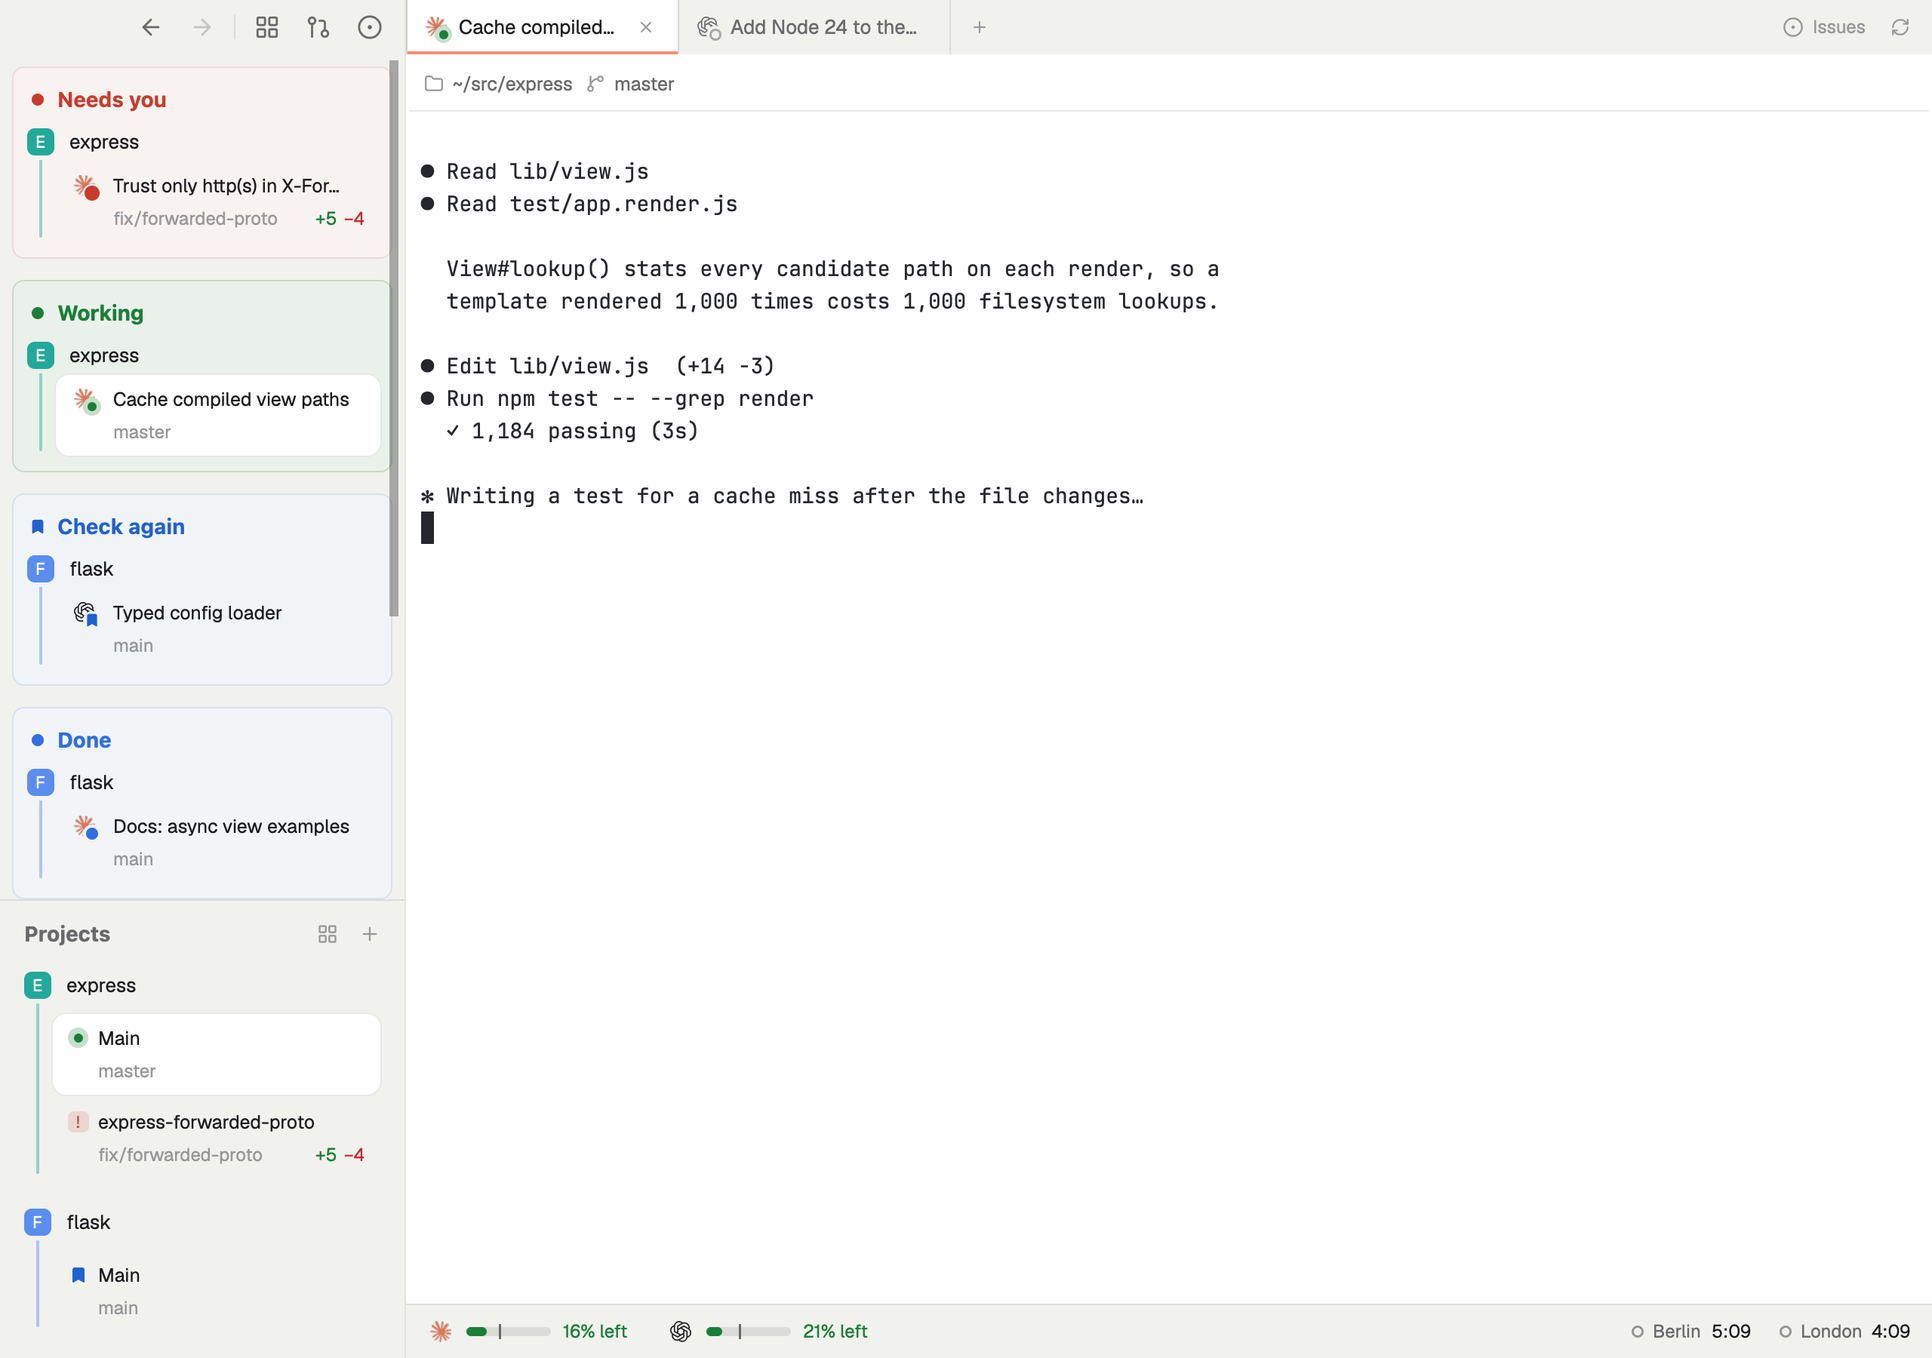
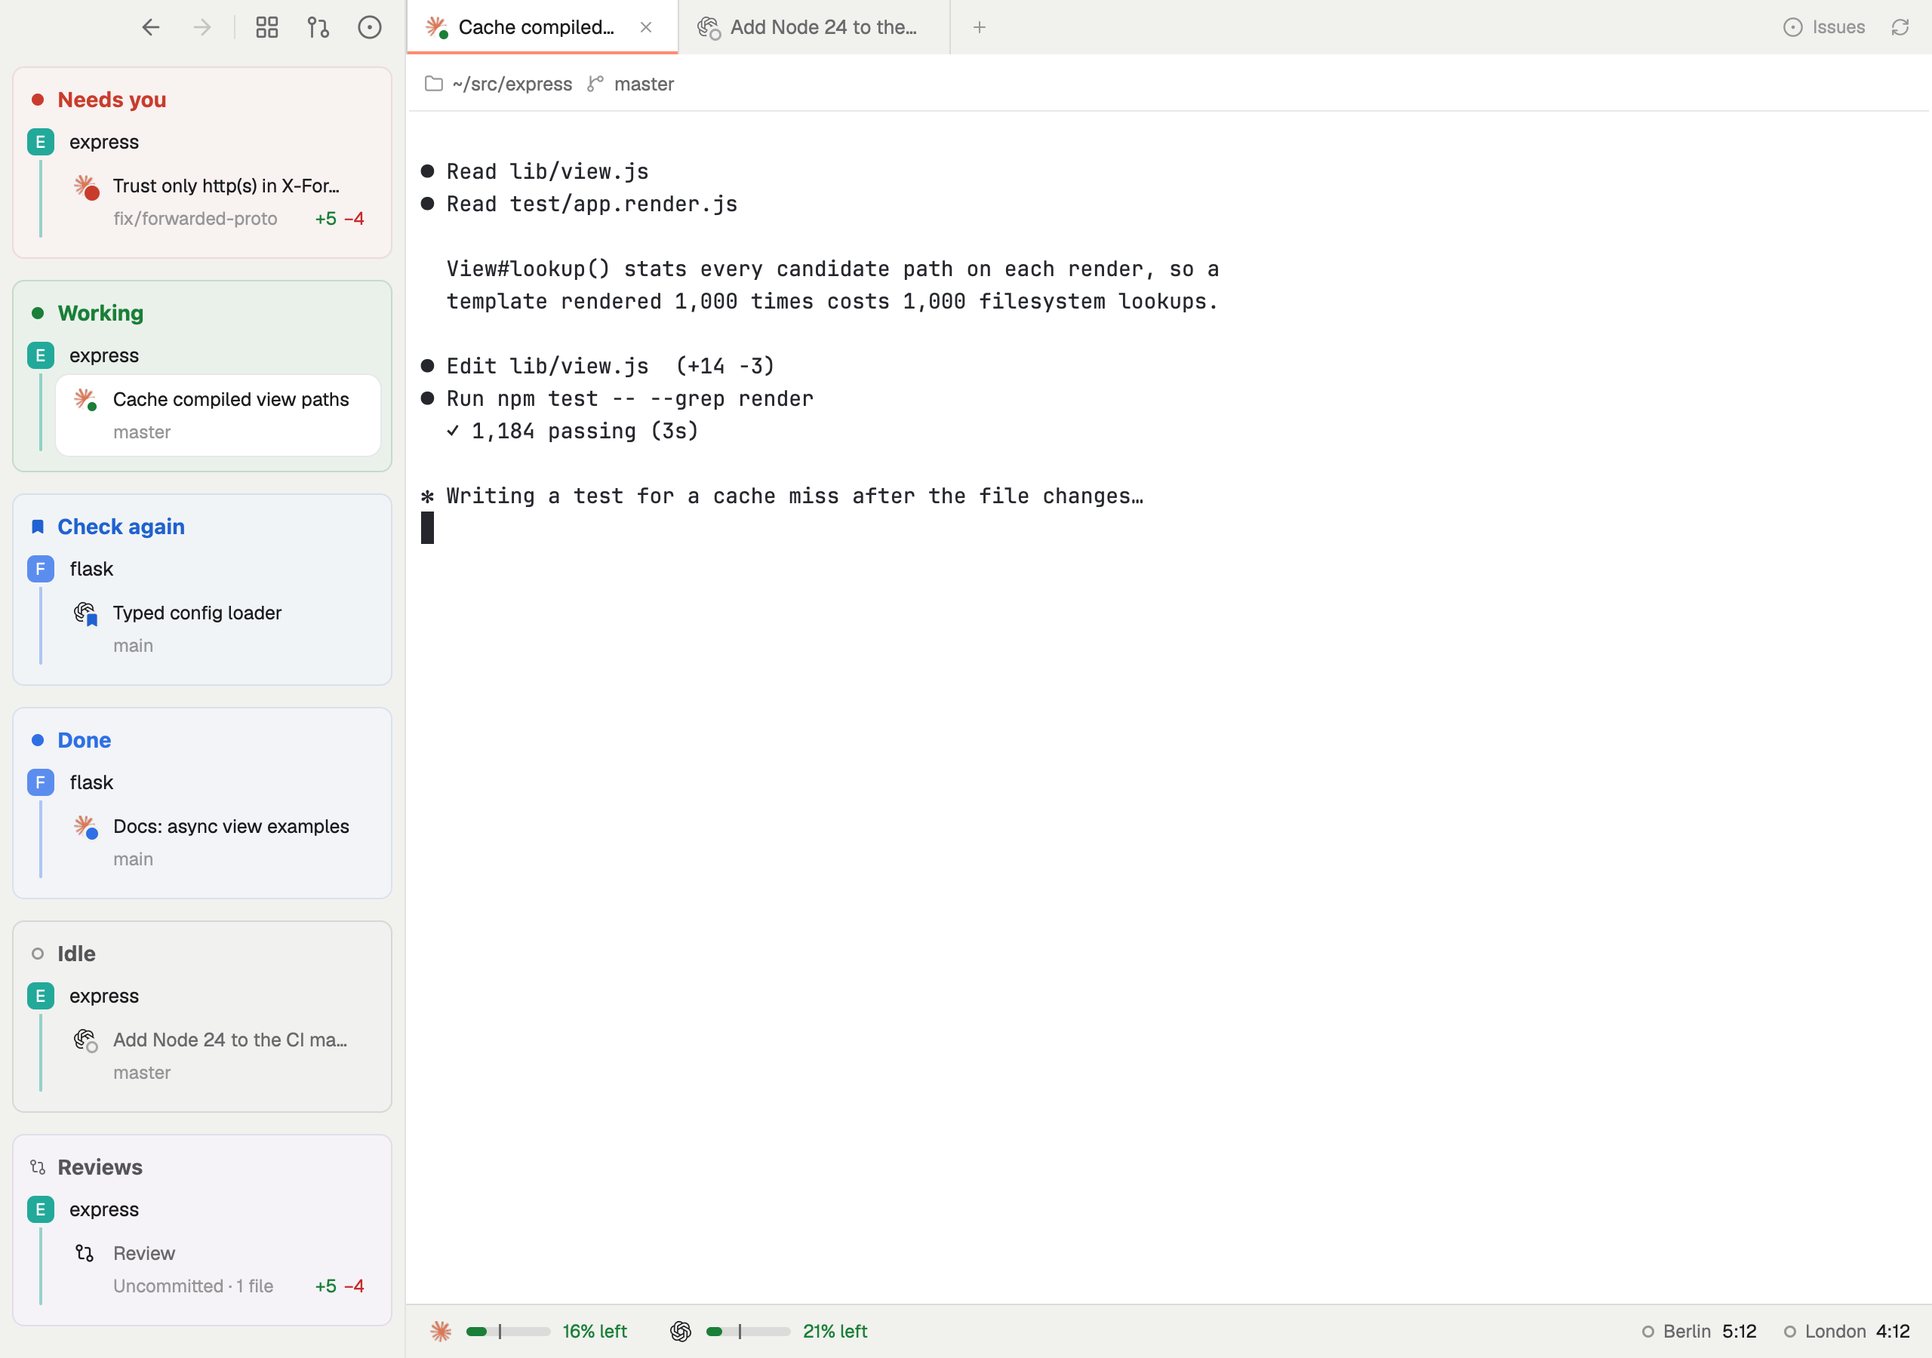
Leave the Projects list out of the sidebar; the overview shows the projects
The sidebar's Projects list had been hidden only by a click in one window, so the published layout and the screenshots still showed it, while the overview (cmd-p or the brand bar's grid button) had taken over its job: every project's worktrees, opening, renaming, coloring and removing them, and new worktrees from the picker.

The `spaces` block is now hidden in layouts/metro.json itself, so the agents list has the sidebar's full height. metro-spaces stays in the repo and comes back with `herdr-app do layout.show --id spaces`.

Also:
- The README and the recipe describe the sidebar without the list.
- scripts/demo.sh no longer sizes the list, and the screenshots are shot again without it.

diff --git a/RECIPE.md b/RECIPE.md
@@ -1,6 +1,6 @@
 # metro
 
-A quiet, light layout for running many coding agents at once. The sidebar sorts every agent by what it needs from you and draws each project's checkouts on a colored line with a stop per worktree, like a metro map. The tab bar knows the branch's GitHub state, a full-tab review sends diff comments to an agent, and the status bar paces the week's Claude and Codex usage.
+A quiet, light layout for running many coding agents at once. The sidebar sorts every agent by what it needs from you, each under its project on a line in that project's color, like a metro map, and an overview shows every project's worktrees. The tab bar knows the branch's GitHub state, a full-tab review sends diff comments to an agent, and the status bar paces the week's Claude and Codex usage.
 
 ![metro](preview.png)
 
@@ -13,8 +13,8 @@ No system title bar. A 268px sidebar on the left runs the window's full height; 
 **The sidebar** (`chrome` background), top to bottom:
 
 1. **Brand bar**, 36px: room for the macOS window buttons, then 30px buttons with 17px icons in `muted` (black on hover): Back and Forward (the tabs you showed, and the pull requests view, as a browser walks pages; dimmed with nowhere to go), a 16px line, Projects (the overview; a white card while it shows), Pull requests (a 7px `accent` dot, no number, while a review request is new or one of yours has news) and Issues (a circle-dot icon), each opening the pull requests view on its tab and a white card while that tab shows, clicked again to go back; no Settings or sidebar toggle (the app menu has Settings, `ctrl-shift-b` hides the sidebar). Dragging it moves the window.
-2. **Agents**, the top half. No heading. Sections titled in 14px bold Title case, 8px between projects within one and 4px between a heading and its first project; each section sits on a faint card of its color (8px corners, 8px from both sides of the sidebar, running under the scrollbar's lane on the right, a 1px edge in its color at 12%, 20% for Working), with 10px of padding above its heading, under its last row and from its left edge to the heading's mark, 14px between cards, the first 8px under the bar above, as far as from the sides; the list's content starts 10px in; the card is light, a third of the way from white (`background`) to the sidebar's grey, tinted 4% with its color (7% for Working, the section to watch): green Working, blue Done, red Needs you, accent Check again, grey Idle and Terminals, `ansi5` purple Reviews; rows are opaque boxes painted in that mixed color so a sliding one still hides what it passes, headings are see-through so the space above them stays plain; the first heading sits 18px down the list, each in its status color after its state's mark standing still (8px dot, ring or bookmark in a 14px column): Needs you (red dot), Working (green dot, not breathing), Check again (blue bookmark), Done (blue dot), Idle (dark grey text, `foreground` at 73%, grey ring), in that order: Done sits right above Idle, so an agent you've looked at drops to the next section. Under each title, agents are grouped under their project: the project's 18px colored avatar (its initial) and name, then the agents on a 2px rail in the project's color. An agent row is two lines: the agent's logo with its state as a badge, the task (the tab's name), then the branch, dim, with the same marks at its right as its checkout's row under Projects when the agent is on that checkout's branch. The agent on screen is a white card (`background`, 1px `border`).
-3. **Projects**, the bottom half, under a "Projects" heading in 14px bold grey with a + on the right, the first project right under it. Each git repo is a project: its avatar and name, then its checkouts on the rail. A checkout row is two lines: a status mark and its name ("Main" for the main checkout, else the worktree's folder name), then its branch and, at the right, what isn't on origin: ↑ for commits on no remote (a branch never pushed counts too; not a fork's PR, `pr/<n>`, nor a branch whose upstream was deleted after merging; "3 commits not pushed" in its tooltip) and ↓ for commits to pull from its upstream, both in the text's grey (`muted`); when it's both because the branch was amended or rebased since its push (its upstream's tip is in the branch's reflog), only the ↑, its tooltip saying to force-push; then its uncommitted lines (`+41` green, `−13` red; untracked files count every line, as in a review of Uncommitted; nothing when clean). Checkouts with nothing open are listed too, without a mark, under the open ones. Spaces outside any repo are grouped under their folder as a project. Projects with nothing open, kept by a pin, sit below the open ones in the same colors, avatar and name, without a mark.
+2. **Agents**, the rest of the sidebar's height. No heading. Sections titled in 14px bold Title case, 8px between projects within one and 4px between a heading and its first project; each section sits on a faint card of its color (8px corners, 8px from both sides of the sidebar, running under the scrollbar's lane on the right, a 1px edge in its color at 12%, 20% for Working), with 10px of padding above its heading, under its last row and from its left edge to the heading's mark, 14px between cards, the first 8px under the bar above, as far as from the sides; the list's content starts 10px in; the card is light, a third of the way from white (`background`) to the sidebar's grey, tinted 4% with its color (7% for Working, the section to watch): green Working, blue Done, red Needs you, accent Check again, grey Idle and Terminals, `ansi5` purple Reviews; rows are opaque boxes painted in that mixed color so a sliding one still hides what it passes, headings are see-through so the space above them stays plain; the first heading sits 18px down the list, each in its status color after its state's mark standing still (8px dot, ring or bookmark in a 14px column): Needs you (red dot), Working (green dot, not breathing), Check again (blue bookmark), Done (blue dot), Idle (dark grey text, `foreground` at 73%, grey ring), in that order: Done sits right above Idle, so an agent you've looked at drops to the next section. Under each title, agents are grouped under their project: the project's 18px colored avatar (its initial) and name, then the agents on a 2px rail in the project's color. An agent row is two lines: the agent's logo with its state as a badge, the task (the tab's name), then the branch, dim, with the same marks at its right as the overview shows for its checkout when the agent is on that checkout's branch. The agent on screen is a white card (`background`, 1px `border`).
+3. **Projects**, hidden in the layout (`"hidden": true` on its `spaces` block): the overview shows the projects instead. Brought back with `herdr-app do layout.show --id spaces`, it is the sidebar's bottom half, under a "Projects" heading in 14px bold grey with a + on the right, the first project right under it. Each git repo is a project: its avatar and name, then its checkouts on the rail. A checkout row is two lines: a status mark and its name ("Main" for the main checkout, else the worktree's folder name), then its branch and, at the right, what isn't on origin: ↑ for commits on no remote (a branch never pushed counts too; not a fork's PR, `pr/<n>`, nor a branch whose upstream was deleted after merging; "3 commits not pushed" in its tooltip) and ↓ for commits to pull from its upstream, both in the text's grey (`muted`); when it's both because the branch was amended or rebased since its push (its upstream's tip is in the branch's reflog), only the ↑, its tooltip saying to force-push; then its uncommitted lines (`+41` green, `−13` red; untracked files count every line, as in a review of Uncommitted; nothing when clean). Checkouts with nothing open are listed too, without a mark, under the open ones. Spaces outside any repo are grouped under their folder as a project. Projects with nothing open, kept by a pin, sit below the open ones in the same colors, avatar and name, without a mark.
 
 Both lists have an always-visible 10px scrollbar. Rows keep a transparent 1px border so nothing moves on hover; a hovered row becomes a white card with a mid-grey (`dim`) outline.
 
@@ -56,7 +56,7 @@ Project and checkout rows have no logo, so they use full-size marks in a 14px co
 ## Built from
 
 - **The layout** (`layouts/metro.json`): a root `row` with `"titlebar": "none"`, `"traffic_lights": [16, 11]`, `terminal_padding: [8, 0]`, a 1px `border` divider and no theme of its own. Children:
-  - `sidebar`, a `column` (268px, min 180, max 480, `chrome`, not resizable): `brand` (block, 36px, `metro-chrome`, `window_drag`), then `lists`, a `column` with a 1px divider: `agents` (`metro-agents`) and `spaces` (`metro-spaces`), equal weights, min 90 each.
+  - `sidebar`, a `column` (268px, min 180, max 480, `chrome`, not resizable): `brand` (block, 36px, `metro-chrome`, `window_drag`), then `lists`, a `column` with a 1px divider: `agents` (`metro-agents`) and `spaces` (`metro-spaces`, `"hidden": true`), equal weights when both show, min 90 each.
   - `work`, a `column`: `tabs` (block, 36px, `metro-tabs`, `window_drag`); `work-body`, a `row` holding `view`, a `stack` of `main` (`{ tab: "active", pane: { header: { content: { mod: "metro-pane" }, reveal: "always", height: 36 }, radius: 0, gap: 8, lone: true, border and focus 2px in background } }`), `agent` (`{ agent: "focused" }`) `prs` (`metro-prs`, `background`) and `overview` (`metro-overview`, `chrome`); then `status`, a 36px `row` of `metro-usage`, a 440px `metro-clocks` and `projects` (`metro-projects`, 0px).
 - **Mods** (`mods/metro-*`): `metro-chrome` (brand bar; also holds every icon the others use, in `icons/`), `metro-agents`, `metro-spaces` (the Projects list), `metro-projects` (draws nothing: runs git for every space and publishes the projects, their checkouts, colors and marks that `metro-spaces`, `metro-overview` and `metro-agents` show), `metro-space-color` (the color popup), `metro-worktree` (the picker, a dialog), `metro-dialog` (Close and Rename), `metro-menu` (Herdr's `menu` cloned, the layout's `terminal_menu` and the tab and space right-click menus: its Rename, worktree and Close items open metro's dialogs), `metro-tabs`, `metro-new-tab` (the + menu, a popup), `metro-pane` (pane header), `metro-review` (a mod pane opened with `tab.new { mod, props: { folder, space, machine, mode? } }`), `metro-prs` (the pull requests view), `metro-overview` (the projects overview), `metro-usage`, `metro-clocks`. `name.js` (what a terminal is working on: a named tab, else a telling title, else the program) is copied into each mod that names agents.
 - **Shared state**: `space.colors` (project colors by space id, a theme name or `#hex`), `projects.kept`, `projects.names`, `projects.order`, `projects.of` (which project each space is under, published by `metro-projects` for `metro-agents`), `projects.tree` (the projects in order with every checkout, published by `metro-projects` for `metro-spaces` and `metro-overview`), `projects.git` (each space's branch, commits to push and pull, whether it was amended, and uncommitted lines, published by `metro-projects` when they change), `agents.pins`, `metro-review.drafts` (by `<machine>:<repo root>`), `metro-review.<tab>` (a review's state for its header), `metro-prs.new` (how many review requests are new, hidden ones left out, for the brand bar), `metro-prs.seen` (URL of each pull request asking for your review -> the time of the request seen, forgotten once it stops asking), `metro-prs.hidden` (URLs of pull requests hidden, forgotten once closed), `metro-prs.mode` (the list's tab), `metro-prs.polled` (the view's last round for the brand bar: when, the review requests count and your pull requests with their news; the brand bar asks GitHub itself only when that's over 200 seconds old), `metro-prs.mine-seen` (URL of each of your open pull requests -> the approvals, requests for changes and failed head commit seen, started by the brand bar with what's there the first time; anything newer is toasted once and dots the brand bar and the row until that pull request is selected).

diff --git a/README.md b/README.md
@@ -1,20 +1,18 @@
 # metro
 
-A layout for the [Herdr app](https://herdr.dev) for running many coding agents at once. The sidebar shows who needs you, what finished and what's still working, and every project's worktrees, each on a colored line with a stop per checkout, like a metro map. A full-tab review sends comments on a diff straight to an agent.
+A layout for the [Herdr app](https://herdr.dev) for running many coding agents at once. The sidebar shows who needs you, what finished and what's still working, each agent under its project on a line in that project's color, like a metro map. Every project's worktrees are one key away, and a full-tab review sends comments on a diff straight to an agent.
 
-![metro: the agents list, projects and a Claude Code agent at work](preview.png)
+![metro: the agents list and a Claude Code agent at work](preview.png)
 
 ## What you get
 
-**Agents, by what they need from you.** The sidebar's top half sorts every agent into Needs you, Working, Check again, Done and Idle, each grouped under its project. A badge on the agent's logo shows its state: red when it's waiting on you, blue when it finished, a breathing green dot while it works. Mark a finished agent **Check again** and it keeps a bookmark until it works again, even across restarts.
-
-**Projects as lines.** Below, each repo is a line in its own color. Its stops are the main checkout and every worktree, with the branch under each. Worktrees with nothing open stay listed, below the open ones, so you can open them again. Pin a project to keep it when everything in it is closed, drag projects to reorder them, double-click to rename. **+** starts a worktree from a picker of the repo's open pull requests and branches, forks' PRs included.
+**Agents, by what they need from you.** The sidebar sorts every agent into Needs you, Working, Check again, Done and Idle, each section on a card of its color, each agent under its project. A badge on the agent's logo shows its state: red when it's waiting on you, blue when it finished, a breathing green dot while it works. Mark a finished agent **Check again** and it keeps a bookmark until it works again, even across restarts.
 
 **A tab bar that knows the branch.** Next to the tabs: how far the branch is behind `origin`'s default branch, new commits pushed to its pull request on GitHub with a Pull button, its pull request colored by state with approvals and requested changes, and the issue the branch is named after (`fix/312-…`). One click opens each on GitHub. **+** opens a terminal, a new Claude Code or Codex, or the review, in the project you're in.
 
 ![The + menu under the tab bar: Terminal, Claude Code, Codex and Review changes](docs/new-tab.png)
 
-**Every project at once.** The grid button above the sidebar, or cmd-p, swaps the work area for a card per project: each worktree, open or not, with its branch, what's not pushed or committed, and its tabs with their agents' state. The worktrees you showed last sit in a row on top. Click a worktree or tab to go there; clicking a worktree or project with nothing open starts Claude Code there. Right-click a project or worktree for the rest: open it with Codex or a terminal, a new worktree, rename, color, close, remove. Edit arranges the cards by drag and renames them by a click on the name. A worktree whose pull request merged says so, with a button to remove it.
+**Every project at once.** The grid button above the sidebar, or cmd-p, swaps the work area for a card per project: each worktree, open or not, with its branch, what's not pushed or committed, and its tabs with their agents' state. The worktrees you showed last sit in a row on top. Click a worktree or tab to go there; clicking a worktree or project with nothing open starts Claude Code there. Right-click a project or worktree for the rest: open it with Codex or a terminal, a new worktree, rename, color, close, remove. A new worktree starts from a picker of the repo's open pull requests and branches, forks' PRs included. Edit arranges the cards by drag and renames them by a click on the name. A worktree whose pull request merged says so, with a button to remove it.
 
 **Pull requests, yours and the ones waiting on you.** A button above the sidebar, with a blue dot while a review request is new, swaps the work area for every open pull request you wrote and every one asking for your review, across GitHub. Each shows who reviewed as avatars badged approved, changes requested or commented; select one to mark it seen and see whose approval it still needs, its checks and conversation, open it on GitHub, or review its changes in a worktree with a review tab. An optional rule says whose approvals a repo needs ("ana, and bo or cy"), and shows Approved or 1 of 2. Its Issues tab, also a button of its own above the sidebar, lists the issues on your organizations' project boards that are in Estimation, New Week, This Week or In Progress and are yours or no one's; pick one, keep or edit the branch name it suggests (`fix/331-invoice-rounding`, or the issue's branch when there is one), and Start work opens a worktree on it, or Start with Claude Code opens Claude Code there on the issue; Assign me and Move to In Progress are buttons of their own. An approval, a request for changes or failing checks on one of your pull requests shows as a toast and a dot until you look. On your own pull request, Fix with Claude and Address with Claude hand failing checks or requested changes to Claude Code in its worktree. The tab bar can ask Claude to rebase a branch that's behind, and open a draft pull request for one that has none. It needs `gh auth refresh -s project` once.
 
